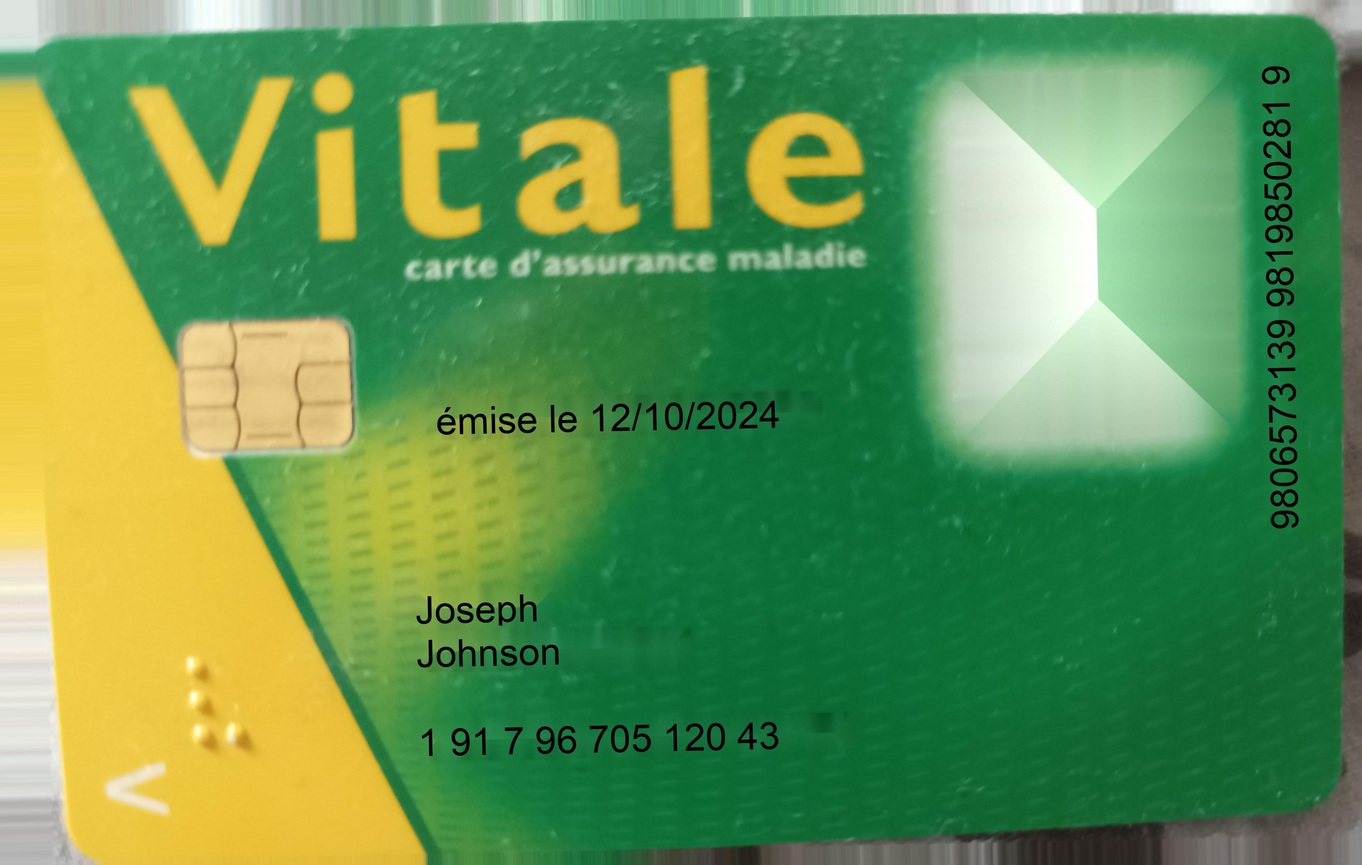
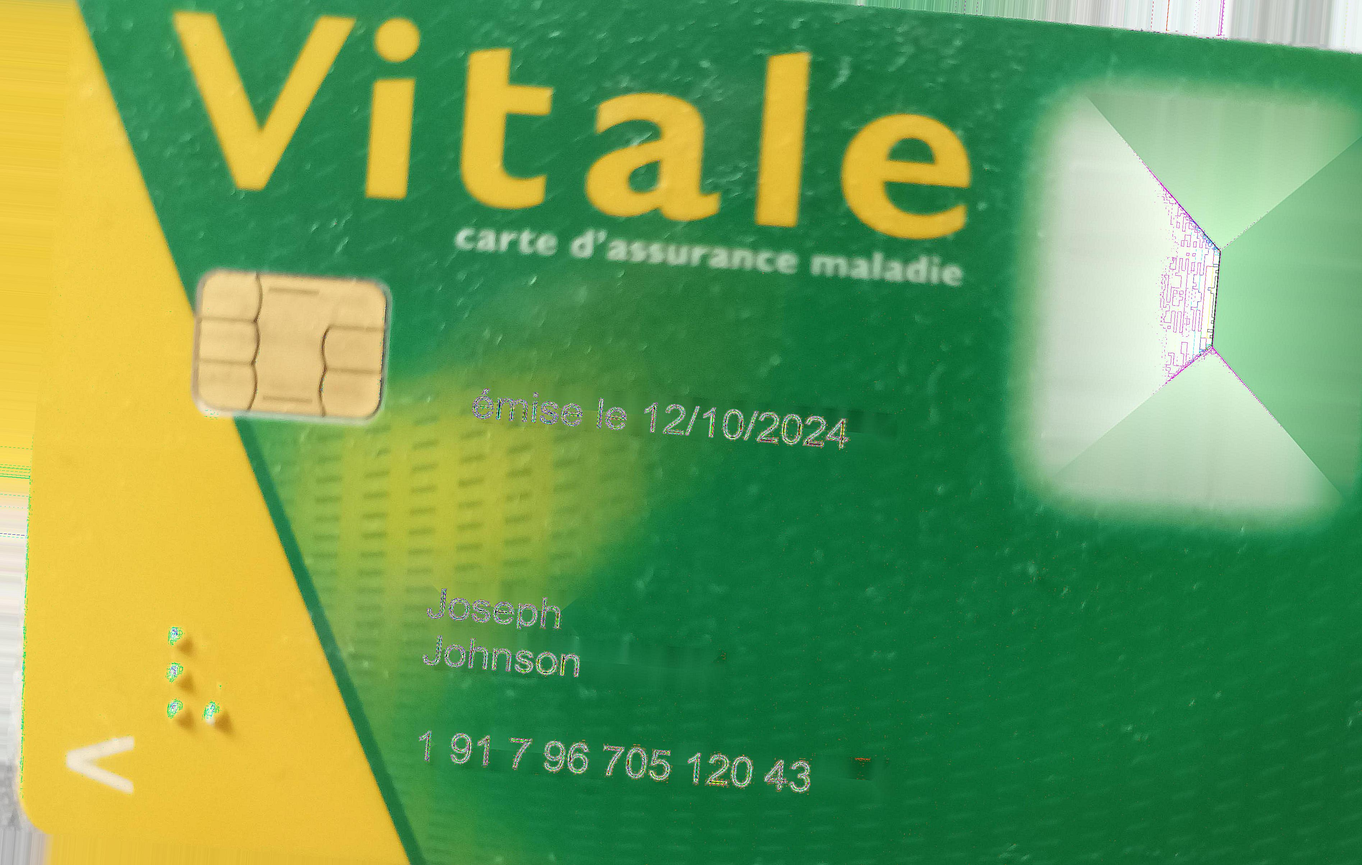
done

diff --git a/app.py b/app.py
@@ -1,10 +1,11 @@
 import streamlit as st
 import os
 from PIL import Image
-
+from augmente_script import augment_images_in_folder
 import utils
 import generator
 # Assurez-vous d'inclure vos fonctions de génération d'images ici
+import re
 
 
 def generate_carte_vitale_images(number_of_images):
@@ -17,21 +18,78 @@ def generate_carte_vitale_images(number_of_images):
         save_status = utils.save_pil_image(image)
         print(save_status)
 
-def display_images_from_folder(folder_path):
+
+def display_images_from_folder_result(folder_path, number_of_last_images=1):
     if not os.listdir(folder_path):
         print(f"No files found in {folder_path}")
-    for image_file in os.listdir(folder_path):
-        if image_file.endswith('.jpg'):
-            image_path = os.path.join(folder_path, image_file)
-            image = Image.open(image_path)
-            st.image(image, caption=image_file)
+        return
+
+    # Extract and sort files by the numeric part in their names
+    image_files = [f for f in os.listdir(folder_path) if f.endswith('.jpg')]
+    image_files.sort(key=lambda x: int(re.findall(r"(\d+)", x)[0]))
+
+    # Display only the last 'number_of_last_images' images
+    for image_file in image_files[-number_of_last_images:]:
+        image_path = os.path.join(folder_path, image_file)
+        image = Image.open(image_path)
+        st.image(image, caption=image_file)
+
+
+def display_images_from_folder_augmented(folder_path, number_of_last_images=1):
+    if not os.listdir(folder_path):
+        print(f"No files found in {folder_path}")
+        return
+
+    # Extract and sort files by the numeric part in their names
+    image_files = [f for f in os.listdir(folder_path) if f.endswith('.jpg')]
+    image_files.sort(key=lambda x: int(re.findall(r"(\d+)", x)[0]))
+
+    # Display only the last 'number_of_last_images' images
+    for image_file in image_files[-number_of_last_images:]:
+        image_path = os.path.join(folder_path, image_file)
+        image = Image.open(image_path)
+        st.image(image, caption=image_file)
+
+
+if 'generated_images' not in st.session_state:
+    st.session_state['generated_images'] = []
+if 'augmented_images' not in st.session_state:
+    st.session_state['augmented_images'] = []
+
+
+def update_image_list(folder_path, image_list_name, number_of_last_images):
+    image_files = [f for f in os.listdir(folder_path) if f.endswith('.jpg')]
+    image_files.sort(key=lambda x: int(re.findall(r"(\d+)", x)[0]))
+    st.session_state[image_list_name] = image_files[-number_of_last_images:]
+
+
+def display_images(image_list, folder_path):
+    for image_file in image_list:
+        image_path = os.path.join(folder_path, image_file)
+        image = Image.open(image_path)
+        st.image(image, caption=image_file)
+
 
 # Streamlit interface
 st.title("Générateur de Carte Vitale")
 
-number = st.number_input("Combien de cartes vitale voulez-vous générer?", min_value=1, max_value=100, value=1)
-folder_path = 'results' # Définissez le chemin de votre dossier d'images
+number = st.number_input(
+    "Combien de cartes vitale voulez-vous générer?", min_value=1, max_value=100, value=1)
+folder_res = 'results'
+backup_folder = 'backup'
+augmented_folder = 'augmented_data'
 
+# Display generated images
+st.header("Images Générées")
 if st.button('Générer des Images'):
     generate_carte_vitale_images(number)
-    display_images_from_folder(folder_path)
+    update_image_list(folder_res, 'generated_images', number)
+display_images(st.session_state['generated_images'], folder_path=folder_res)
+
+# Display augmented images
+st.header("Images Augmentées")
+if st.button('Générer des Images Augmentées'):
+    augment_images_in_folder(folder_res, augmented_folder, backup_folder)
+    update_image_list(augmented_folder, 'augmented_images', number)
+display_images(st.session_state['augmented_images'],
+               folder_path=augmented_folder)

diff --git a/augmente_script.py b/augmente_script.py
@@ -2,20 +2,78 @@ import os
 from tensorflow.keras.preprocessing.image import ImageDataGenerator, img_to_array, load_img
 from PIL import Image
 import shutil
-
+import random
+import numpy as np
+import cv2
 import os
 import shutil
 import random
 from tensorflow.keras.preprocessing.image import ImageDataGenerator, img_to_array, load_img
 from PIL import Image
 
-def augment_images_in_folder(folder_path,dir_save=None, backup_folder_path=None, grayscale_probability=0.6):
+# Custom preprocessing function for sharpening
+
+
+def sharpen(img):
+    if random.random() > 0.25:  # 75% chance to skip sharpening
+        return img
+    kernel = np.array([[-1, -1, -1], [-1, 9, -1], [-1, -1, -1]])
+    img = cv2.filter2D(img, -1, kernel)
+    return img
+
+# Custom preprocessing function for random erasing
+
+
+def random_erase(img):
+    if random.random() > 0.25:  # 75% chance to skip cropping
+        return img
+    # Specify erasing parameters
+    W, H = img.shape[1], img.shape[0]
+    erase_percent = 0.1  # example proportion to erase
+
+    # Compute area to erase
+    Erase_area = int(erase_percent * W * H)
+
+    # Randomly choose the location to start erasing
+    x1 = np.random.randint(0, W)
+    y1 = np.random.randint(0, H)
+
+    # Calculate the dimensions of the rectangle
+    h = np.random.randint(1, H - y1)
+    w = Erase_area // h
+    w = min(w, W - x1)
+    h = min(h, Erase_area // w)
+
+    img[y1:y1+h, x1:x1+w] = 0
+    return img
+
+
+def random_zoom(img):
+    if random.random() > 0.25:  # 75% chance to skip zooming
+        return img
+
+    # Define zoom scale (example: zoom in by 20% to 40%)
+    zoom_scale = random.uniform(1.2, 1.4)
+    height, width = img.shape[:2]
+
+    # Calculate the region to be cropped and resized (zoomed)
+    new_height, new_width = int(height / zoom_scale), int(width / zoom_scale)
+    start_x = np.random.randint(0, width - new_width)
+    start_y = np.random.randint(0, height - new_height)
+    zoomed_img = img[start_y:start_y + new_height, start_x:start_x + new_width]
+
+    # Resize to original size
+    return cv2.resize(zoomed_img, (width, height))
+
+
+def augment_images_in_folder(folder_path, dir_save=None, backup_folder_path=None, grayscale_probability=0.6):
     if backup_folder_path:
         if not os.path.exists(backup_folder_path):
             os.makedirs(backup_folder_path)
         for filename in os.listdir(folder_path):
-            if filename.endswith(".jpg"): 
-                shutil.copy2(os.path.join(folder_path, filename), os.path.join(backup_folder_path, filename))
+            if filename.endswith(".jpg"):
+                shutil.copy2(os.path.join(folder_path, filename),
+                             os.path.join(backup_folder_path, filename))
 
     data_gen = ImageDataGenerator(
         rotation_range=5,
@@ -23,7 +81,9 @@ def augment_images_in_folder(folder_path,dir_save=None, backup_folder_path=None,
         height_shift_range=0.05,
         shear_range=0.01,
         zoom_range=0.1,
-        fill_mode='nearest'
+        fill_mode='nearest',
+        preprocessing_function=lambda img: sharpen(random_zoom(img))
+
     )
 
     for filename in os.listdir(folder_path):
@@ -37,8 +97,10 @@ def augment_images_in_folder(folder_path,dir_save=None, backup_folder_path=None,
 
             # Randomly convert to grayscale based on the specified probability
             if random.random() < grayscale_probability:
-                transformed_image = Image.fromarray(transformed_image.astype('uint8')).convert('L')
+                transformed_image = Image.fromarray(
+                    transformed_image.astype('uint8')).convert('L')
             else:
-                transformed_image = Image.fromarray(transformed_image.astype('uint8'), 'RGB')
+                transformed_image = Image.fromarray(
+                    transformed_image.astype('uint8'), 'RGB')
 
             transformed_image.save(dir_save+'/'+filename)

diff --git a/generator.py b/generator.py
@@ -1,24 +1,33 @@
 import random
 from datetime import datetime
 import json
+import random
+
 
 def generate_date():
-    random_date = datetime.strptime('{} {}'.format(random.randint(1, 366), 2024), '%j %Y')
+    years = [2021, 2019, 2018, 2017, 2016, 2015, 2022, 2023, 2024]
+    random_date = datetime.strptime('{} {}'.format(
+        random.randint(1, 366),  random.choice(years)), '%j %Y')
     formatted_date = random_date.strftime('%d/%m/%Y')
     print(f"Generated Date: {formatted_date}")
     return 'émise le '+formatted_date
 
+
 def generate_firstname():
-    first_names = ["James", "Mary", "John", "Patricia", "Robert", "Jennifer", "Michael", "Linda", "William", "Elizabeth", "David", "Barbara", "Richard", "Susan", "Joseph", "Jessica", "Thomas", "Sarah", "Charles", "Karen"]
+    first_names = ["James", "Mary", "John", "Patricia", "Robert", "Jennifer", "Michael", "Linda", "William",
+                   "Elizabeth", "David", "Barbara", "Richard", "Susan", "Joseph", "Jessica", "Thomas", "Sarah", "Charles", "Karen"]
     random_first_name = random.choice(first_names)
     print(f"Generated First Name: {random_first_name}")
     return random_first_name
 
+
 def generate_lastname():
-    last_names = ["Smith", "Johnson", "Williams", "Brown", "Jones", "Garcia", "Miller", "Davis", "Rodriguez", "Martinez", "Hernandez", "Lopez", "Gonzalez", "Wilson", "Anderson", "Thomas", "Taylor", "Moore", "Jackson", "Martin"]
+    last_names = ["Smith", "Johnson", "Williams", "Brown", "Jones", "Garcia", "Miller", "Davis", "Rodriguez", "Martinez",
+                  "Hernandez", "Lopez", "Gonzalez", "Wilson", "Anderson", "Thomas", "Taylor", "Moore", "Jackson", "Martin"]
     random_last_name = random.choice(last_names)
     print(f"Generated Last Name: {random_last_name}")
     return random_last_name
+
 
 def generate_insurance_code():
     parts = [
@@ -34,6 +43,7 @@ def generate_insurance_code():
     print(f"Generated Insurance Code: {insurance_code}")
     return insurance_code
 
+
 def generate_card_id():
     part1 = ''.join(str(random.randint(0, 9)) for _ in range(10))
     part2 = ''.join(str(random.randint(0, 9)) for _ in range(10))
@@ -42,6 +52,7 @@ def generate_card_id():
     card_id = f"{part1} {part2} {part3}"
     print(f"Generated Card ID: {card_id}")
     return card_id
+
 
 def read_json_from_path(file_path):
     try:
@@ -53,6 +64,7 @@ def read_json_from_path(file_path):
         print(f"Error reading file {file_path}: {e}")
         return str(e)
 
+
 def add_key_to_values(json_data, key, value):
     for annotation in json_data[0]['annotations']:
         for result in annotation['result']:
@@ -61,13 +73,15 @@ def add_key_to_values(json_data, key, value):
                 print(f"Added {key}: {value}")
     return json_data
 
+
 def generate_dict_with_replacement(path):
     d_json = read_json_from_path(path)
 
     d_json = add_key_to_values(d_json, 'Date', generate_date())
     d_json = add_key_to_values(d_json, 'LastName', generate_lastname())
     d_json = add_key_to_values(d_json, 'FirstName', generate_firstname())
-    d_json = add_key_to_values(d_json, 'InsuranceCode', generate_insurance_code())
+    d_json = add_key_to_values(
+        d_json, 'InsuranceCode', generate_insurance_code())
     d_json = add_key_to_values(d_json, 'cardId', generate_card_id())
     return d_json
 
